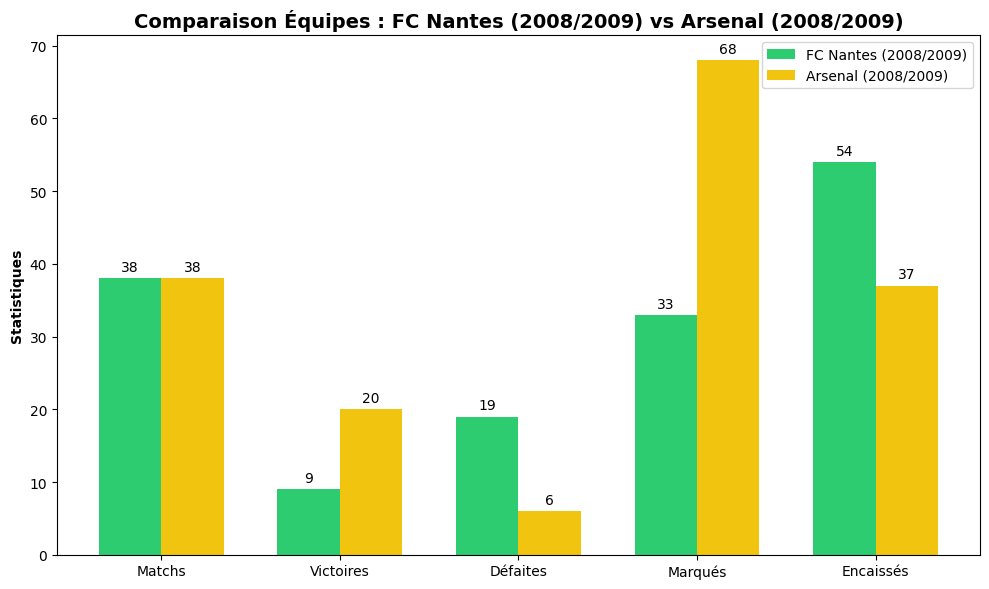
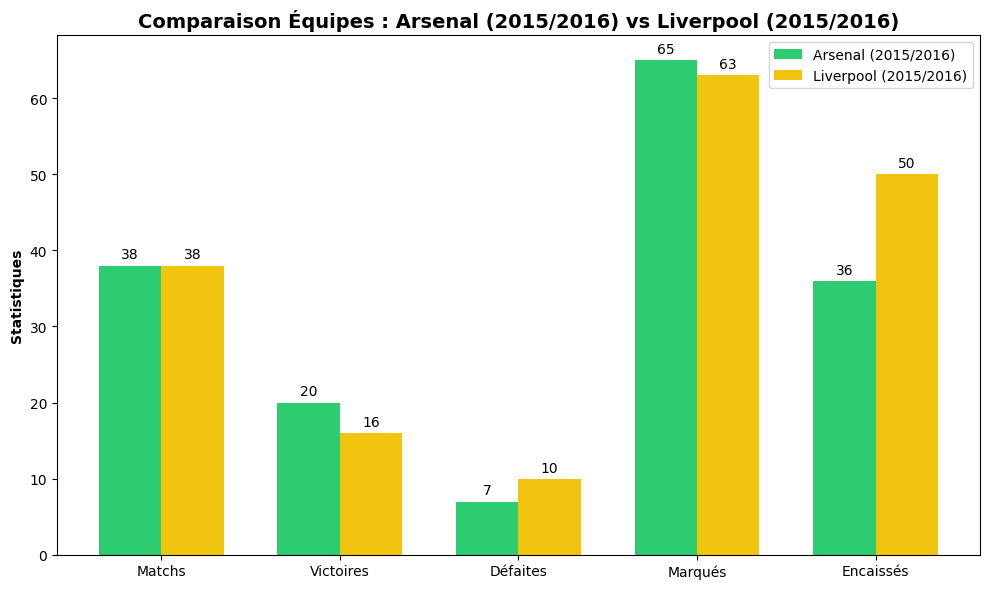
modif main

diff --git a/src/__main__.py b/src/__main__.py
@@ -297,13 +297,9 @@ def main():
                                 ]
                             except Exception:
                                 print("Choix invalide, calcul sur toutes les saisons.")
-
-                    res_j1 = calculer_stats_joueur(
-                        nom_j1, nom_sport_choisi, matchs_filtres
-                    )
-                    res_j2 = calculer_stats_joueur(
-                        nom_j2, nom_sport_choisi, matchs_filtres
-                    )
+                    calculateur_filtre = PlayerStatsCalculator(sport_obj, matchs_filtres)
+                    res_j1 = calculateur_filtre.obtenir_bilan(nom_j1)
+                    res_j2 = calculateur_filtre.obtenir_bilan(nom_j2)
 
                     if isinstance(res_j1, str):
                         print(f"\n❌ Erreur Joueur 1 : {res_j1}")
